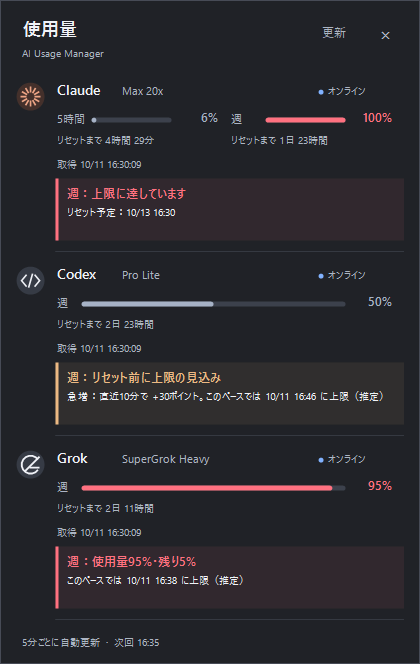
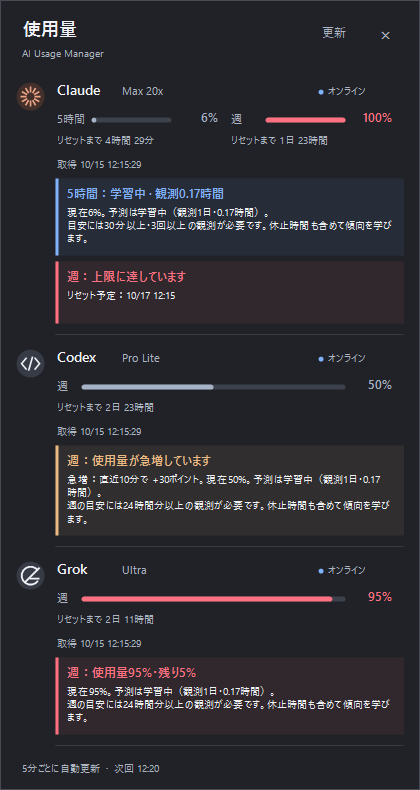
Showcase the app with screenshots and clear setup guidance

diff --git a/tests/Diagnostics.cs b/tests/Diagnostics.cs
@@ -26,7 +26,7 @@ internal static class Diagnostics
             var claude=ServiceUsage.Empty("Claude","");claude.Plan="Max 20x";claude.Source="オンライン";claude.RecordedAt=now;
             claude.Windows[0].Percent=1;claude.Windows[0].ResetsAt=now.AddHours(4.5);claude.Windows[1].Percent=98;claude.Windows[1].ResetsAt=now.AddDays(2);
             var codex=ServiceUsage.Empty("Codex","");codex.Plan="Pro Lite";codex.Source="CLI 記録";codex.RecordedAt=now.AddHours(-3);codex.Windows[0].Percent=50;codex.Windows[0].ResetsAt=now.AddDays(3);
-            var grok=ServiceUsage.Empty("Grok","");grok.Plan="SuperGrok Heavy";grok.Source="オンライン";grok.RecordedAt=now;grok.Windows[0].Percent=42;grok.Windows[0].ResetsAt=now.AddDays(2.5);
+            var grok=ServiceUsage.Empty("Grok","");grok.Plan="Ultra";grok.Source="オンライン";grok.RecordedAt=now;grok.Windows[0].Percent=42;grok.Windows[0].ResetsAt=now.AddDays(2.5);
             values=new[]{claude,codex,grok};
             if(args.Contains("--alerts")) {
                 var alerts=new UsageAlerts();

diff --git a/README.md b/README.md
@@ -1,122 +1,122 @@
-<img src="assets/app.png" width="72" height="72" alt="AI Usage Manager icon">
+<img src="assets/app.png" width="64" height="64" alt="AI Usage Managerのアイコン">
 
 # AI Usage Manager
 
-Claude・Codex・Grok の使用量をまとめて確認する、Windows 11用の軽量タスクトレイアプリです。
+**Claude・Codex・Grokの使用量とリセット時間を、ひとつの場所で。**
 
-トレイ版はWindows標準の **.NET Framework 4.8 / 4.8.1 と Windows Forms** で動作します。追加ランタイム、WebView2、Node.js、Python、NuGetは不要です。表示言語は日本語です。Windowsウィジェット版は追加の登録・ランタイムが必要なオプションです。
+Windows 11のタスクトレイから開く、軽量な使用量モニターです。作業中に残りの枠を確認し、上限が近づいたら通知で気づけます。Obsidianのノート上部やWindowsウィジェットにも表示できます。表示言語は日本語です。
+
+[![Windows build](https://github.com/genkis3zu/AIUsageManager/actions/workflows/build.yml/badge.svg)](https://github.com/genkis3zu/AIUsageManager/actions/workflows/build.yml)
+
+[ダウンロード](https://github.com/genkis3zu/AIUsageManager/releases/latest) · [スクリーンショット](#スクリーンショット) · [はじめる](#はじめる) · [プライバシー](docs/privacy.md) · [MIT License](LICENSE)
 
 | ライト | ダーク |
 |---|---|
-| ![ライト表示](docs/images/light.png) | ![ダーク表示](docs/images/dark.png) |
+| ![ライトテーマのトレイ一覧。使用率、リセット時間、取得時刻を表示](docs/images/light.png) | ![ダークテーマのトレイ一覧。GrokのUltraプランなどを表示](docs/images/dark.png) |
 
-画像は架空のプラン・使用率によるサンプルです。
+画像の使用量・プランはすべて架空のサンプルです。本文は`main`の1.1開発版を紹介しています。**公開Releaseのv1.0.0に含まれる機能は、下の[対応版の表](#はじめる)で確認してください。**
 
-## ダウンロード・起動
+## できること
 
-1. [最新版のRelease](https://github.com/genkis3zu/AIUsageManager/releases/latest) から `AIUsageManager-1.0.0-windows.zip` をダウンロードします。
-2. ZIPを、書き込み可能な任意のフォルダーに展開します。
-3. **AIUsageManager.exe** を起動します。`AIUsageManager.exe.config` は同じフォルダーに置いてください。
-4. タスクトレイの棒グラフのアイコンをクリックします。見当たらなければ `^` 内を確認してください。
+- **3サービスを一覧で確認** — Claudeの5時間・週、CodexとGrokの週枠を表示。プラン名、使用率、リセットまでの時間、取得時刻が分かります。
+- **上限が近づいたら通知** — 90%・95%・100%への到達、急増、学習した予測による警告をWindows通知と画面内の文章で知らせます。
+- **使い方の傾向から予測** — 使用率の履歴を蓄積し、過去の予測誤差で補正。90%・95%までの目安を幅で表示します。
+- **いつもの作業場所に表示** — Obsidianの固定ツールバーは標準3行／縮小1行。Windowsのウィジェットボードにも追加できます。
+- **Windows標準の仕組みで常駐** — トレイ版は.NET Framework 4.8 / 4.8.1とWindows Formsで動作。追加ランタイム、WebView2、Node.js、Pythonのインストールは不要です。
 
-対応するCLIの既存ログインや利用記録を参照します。利用できるログイン情報も保存された使用量もないサービスは「未取得」になります。管理者権限は不要です。インストーラーと自動起動登録はありません。
+5分ごとに自動更新し、手動更新にも対応します。ライト／ダーク／Windowsに合わせる、の3つから配色を選べます。
 
-配布ファイルはコード署名されていません。ダウンロード元とReleaseのSHA-256を確認してください。保護機能の無効化は必要ありません。
+## スクリーンショット
 
-## 表示するもの
+### 色だけでなく、文章で知らせる
 
-| サービス | 使用枠 | データ元 |
+上限到達や急増を警告帯に表示します。予測の詳細には現在の割合、推定ペース、到達までの目安幅、検証件数と平均誤差を表示します。
+
+| 上限・急増の警告 | 履歴から補正する到達予測 |
+|---|---|
+| ![上限到達、急増、95%到達を示す警告帯](docs/images/alerts-dark.png) | ![使用率の履歴から90%と95%までの目安幅を表示する予測画面](docs/images/forecast-light.png) |
+
+最初は「学習中」です。週枠は有効な24時間分、5時間枠は30分分と3件以上の観測から参考値を表示します。検証が足りない間は予測による通知を控えます。使い方が変わると外れるため、予測は目安として使ってください。[警告・予測の詳しい仕組み →](docs/alerts.md)
+
+### Obsidianで、ノートを書きながら確認
+
+デイリーノートなどの上部に固定表示します。**本文をスクロールしてもツールバーは残り、ノート本文やテンプレートは変更しません。**
+
+**標準表示：3サービスを3行で。**
+
+![架空のデイリーノート上部に3行の使用量ツールバーを表示したプレビュー](docs/images/obsidian-note-light.png)
+
+**縮小表示：1行でコンパクトに。**
+
+![ダークテーマの架空ノートで使用率を1行にまとめたプレビュー](docs/images/obsidian-note-dark.png)
+
+上の2枚は実際のツールバーコードを架空のノート領域に配置したプレビューです。Obsidianのテーマによって周囲の見た目は異なります。使用量と警告は常駐アプリと共有し、プラグインは認証情報にアクセスしません。[Obsidian連携の導入・操作 →](docs/obsidian-guide.md)
+
+### Windowsウィジェットにも
+
+Win+Wのボードへ中／大サイズのカードを追加できます。使用率の確認、手動更新、トレイアプリを開く操作に対応します。
+
+| 中サイズ・ライト | 大サイズ・ダーク |
+|---|---|
+| ![3サービスをコンパクトに表示した中サイズのウィジェット](widgets/Assets/Preview.png) | ![リセット時間と取得時刻も表示した大サイズのウィジェット](docs/images/widget-large-dark.png) |
+
+画像はAdaptive Cardsの公式ホスト設定による架空データのプレビューです。Windowsのボードでの描画には差が出る場合があります。ウィジェットは追加のランタイム・登録が必要なオプションです。[Windowsウィジェットの追加手順 →](docs/widgets-guide.md)
+
+## はじめる
+
+| 使う版 | 含まれる機能 | 入手方法 |
 |---|---|---|
-| Claude | 5時間・週 | 既存Claude Codeログインによる使用量取得。失敗時は既存キャッシュ |
-| Codex | 週 | 既存ChatGPTログインによるオンライン取得。通信失敗時はローカルのCodexセッション |
-| Grok | 週 | 既存Grok CLIログインによる請求情報取得。認証・通信失敗時は未取得 |
+| **公開Release v1.0.0** | 基本のトレイ一覧、テーマ切替、5分ごとの更新 | [ReleaseからZIPをダウンロード](https://github.com/genkis3zu/AIUsageManager/releases/latest) |
+| **main・1.1開発版** | 上記に加え、ログインボタン、通知、学習する予測、Obsidian連携、Windowsウィジェット | [ソースからビルド](#ソースからビルド) |
 
-- プラン名、使用率バー、リセットまでの時間、取得時刻を表示します。
-- **80%以上は赤**。値がない「未取得」と、取得済みの **0%** を区別します。
-- ログを今読み直しても取得時刻を現在時刻に置き換えません。15分以上前の観測には「保存された値」と表示します。
-- リセット期限を過ぎても、再取得できるまでは0%に戻しません。
-- GrokはUltra・Superなどの新プラン名に対応し、オンラインの契約名を優先します。プラン名に `*` が付く場合は、マウスを重ねると取得元や旧名が残る場合の説明を確認できます。
-- Grokのログイン切れや取得失敗時は、古いCLI使用量へ戻さず、数値とバーを非表示にします。
-- Grokのリセット後に使用率が省略された場合は、公式画面側の応答と現在の週を追加確認し、確認できた0%を表示します。
-- GrokはGrok Build CLIの請求情報を参照します。Grok Botの別枠は取得しません。CLIの `grok usage` が返すセッション別のトークン数・費用とは異なる値です。
+**このREADMEの通知・予測・Obsidian・ウィジェット機能は、v1.0.0のZIPには含まれません。**
 
-### 使用量の警告（1.1開発版）
+### トレイ版を起動する
 
-90%・95%・100%に達したとき、Windows通知と画面内の警告帯で知らせます。急増や「このペースではリセット前に上限に達する見込み」も通知します。同じ警告を5分更新のたびに繰り返しません。
+1. Releaseの`AIUsageManager-1.0.0-windows.zip`を、書き込み可能な任意のフォルダーに展開します。
+2. **AIUsageManager.exe**を起動します。`AIUsageManager.exe.config`は同じフォルダーに置いてください。
+3. タスクトレイの棒グラフアイコンをクリックします。見当たらなければ`^`内を確認してください。
 
-トレイ右クリック → **通知** で「上限・急増・到達予測」「90%・95%・100%のみ」「通知しない」を選べます。初期設定はすべて通知です。通知を切っても画面内の警告は残ります。ウィジェットにも上限に近い状態を文章で表示します。
+Windows 11と対応CLIの既存ログインや利用記録が必要です。利用できる値がなければ「未取得」になります。トレイ版は管理者権限不要です。インストーラーと自動起動登録はありません。配布ファイルは未署名のため、公式ReleaseとSHA-256を確認してください。保護機能の無効化は必要ありません。
 
-到達予測は使用率の履歴を蓄積し、過去の予測と実績の誤差に応じて補正します。週枠は24時間分、5時間枠は30分・3回以上の観測が揃うまで「学習中」です。閾値・急増の警告は学習中も使えます。詳しくは [使用量の警告](docs/alerts.md) を参照してください。**v1.0.0のReleaseには未収録**です。
+### ログインと操作
 
-トレイとObsidianでは現在の割合、推定ペース、90%・95%への目安幅、100%の中心目安、履歴量と検証誤差を確認できます。直近平均・長期平均・曜日時間帯を比較し、誤差の小さい方法へ重みを寄せます。トレイ右クリック → **予測の学習** で状態の確認と履歴削除ができます。将来の作業量によって外れるため、精度の保証ではありません。
-
-![警告表示の架空サンプル](docs/images/alerts-dark.png)
-
-### ログイン
-
-Codex・Grokのログインが必要な場合、該当行とウィジェットに「ログイン」ボタンが出ます。トレイの右クリック →「ログイン」からも操作できます。
-
-ボタンを押すと、インストール済みの公式CLIが認証画面を開きます（Codex: `codex login`、Grok: `grok login --oauth`）。CLIのウィンドウとブラウザでログインを完了すると、トレイの使用量を自動で再取得します。ウィジェットは「更新」または次回の自動更新で反映します。CLIが未導入の場合は、その旨を表示します。
-
-AI Usage Managerが認証ファイルを書き換えることはありません。ボタンから起動した公式CLIは、通常のログインと同じように認証情報を保存・更新します。APIキーの入力やコピーは不要です。
-
-## 操作
+1.1開発版では、Codex・Grokの認証が必要になると「ログイン」ボタンが表示されます。インストール済みの公式CLIで認証を開始し、完了後に使用量を再取得します。APIキーのコピーは不要です。ClaudeはClaude Codeの通常のログインを使用します。
 
 | 操作 | 動作 |
 |---|---|
 | トレイを左クリック | 一覧を開く／閉じる |
-| 「更新」または F5 | 手動で再取得 |
-| 自動更新 | 前回の取得完了から5分後 |
-| 外側をクリック、Esc、×、Alt+F4 | ポップアップを閉じて常駐を継続 |
-| トレイ右クリック → テーマ | Windowsに合わせる／ライト／ダーク |
-| トレイ右クリック → 通知 | すべて／上限のみ／通知しない |
-| トレイ右クリック → 終了 | 常駐を終了 |
-| 起動済みのexeを再実行 | 既存のポップアップを表示 |
+| 「更新」またはF5 | 使用量を再取得 |
+| 外側をクリック、Esc、× | 一覧を閉じて常駐を継続 |
+| 右クリック → テーマ | Windowsに合わせる／ライト／ダーク |
+| 右クリック → 通知 | すべて／90%・95%・100%のみ／通知しない |
+| 右クリック → 予測の学習 | 学習状態の確認・履歴の削除 |
+| 右クリック → 終了 | アプリを終了 |
 
-初期テーマは「Windowsに合わせる」。Windowsのテーマ変更にも追従します。コントラストテーマが有効ならその配色を優先します。テーマと通知の選択を、exeの横の `settings.ini` に保存します。
+## 取得するデータ
 
-## プライバシー
+| サービス | 使用枠 | 主な取得元 |
+|---|---|---|
+| Claude | 5時間・週 | 既存Claude Codeログインによるオンライン取得。失敗時は既存キャッシュ |
+| Codex | 週 | 既存ChatGPTログインによるオンライン取得。通信失敗時はCodexのセッション記録 |
+| Grok | 週 | 既存Grok CLIログインによる請求情報。認証・通信失敗時は未取得 |
 
-サービスのログ・認証・設定ファイルは**読み取り専用**です。トークンや生のAPIレスポンスをログ・画面・アプリの設定ファイルへ出力しません。予測用の割合・取得／リセット時刻・既知のプラン名を、このPCのユーザー別領域に暗号化して最大90日保存します。会話内容やアカウントIDは保存せず、履歴は削除できます。通知とウィジェットの表示内容はWindowsが保持する場合があります。テレメトリー、自動更新通信、独自サーバーへの送信はありません。
+**未取得と0%を区別します。** 保存値には元の取得時刻を表示し、古い値を新しい値として扱いません。Grokの取得失敗時は古いCLIの使用率へ戻さず、数値とバーを隠します。Ultra・Superなどの新プラン名にも対応します。
 
+GrokはGrok Build CLIの請求情報を参照し、Grok Botの別枠は取得しません。契約名から数値を換算したり、別枠を足し合わせたりもしません。取得先が旧プラン名を返すことがあり、`*`の説明をマウスで確認できます。[取得仕様と制限 →](docs/data-sources.md)
 
-各サービスの取得時は、そのサービスの固定HTTPSエンドポイントに認証情報を送ります。読み取り対象・通信先・保存する内容は [プライバシー文書](docs/privacy.md) に記載しています。
+## プライバシーと制限
 
-## 制限・トラブルシューティング
+- 各サービスのログ・認証・設定ファイルは**読み取り専用**です。ログインボタンで起動する公式CLIは、通常の認証と同じように自身の認証情報を保存・更新します。
+- 予測用の割合、取得／リセット時刻、サービス枠と既知のプラン名を**このPC内に暗号化して最大90日保存**します。会話内容、トークン、アカウントID、生の応答は保存しません。履歴は削除できます。
+- テレメトリーや独自サーバーへの送信はありません。使用量を取得するときだけ、各サービスの固定エンドポイントへ認証情報を送ります。
+- 各社の公式アプリではありません。非公開の取得先が変更されると取得できなくなる場合があります。カスタムCLIホーム、複数アカウント切替は未対応です。
 
-- 各サービスの取得先は非公開仕様のため、将来変更される可能性があります。サービス各社の公式アプリではありません。
-- 認証切れの場合、Codex・Grokは「ログイン」ボタン、ClaudeはClaude Codeの通常の再ログインを使用してください。バックグラウンドでのトークン更新はしません。
-- 「CLI 記録」は最後にログへ保存された時点の値です。オンライン取得に失敗して保存値へ戻った場合、元の取得時刻と失敗理由を表示します。
-- カスタムCLIホーム、複数アカウント切り替えは未対応です。
-- 詳細な読取形式・上限は [データ取得仕様](docs/data-sources.md) を参照してください。
+読み取り対象・通信先・保存内容は[プライバシー文書](docs/privacy.md)、取得できない場合の確認事項は[データ取得仕様](docs/data-sources.md)をご覧ください。
 
-## ビルド・開発
+## ソースからビルド
 
-### Obsidianの固定ツールバー（1.1開発版）
-
-デイリーノートなどの上部に、本文をスクロールしても残る使用量ツールバーを表示できます。**標準は3行、縮小は1行**。⇡／⇣で切り替え、選択を保存します。編集・リーディングの両モードに対応し、ノート本文やテンプレートは変更しません。
-
-![Obsidian標準表示の架空サンプル](docs/images/obsidian-standard.png)
-
-![Obsidian縮小表示の架空サンプル](docs/images/obsidian-compact.png)
-
-使用量・警告は常駐アプリと共通です。Windows版Obsidian用のオプションプラグインで、認証情報にはアクセスせず、サービスへの追加問い合わせも行いません。導入と操作は [Obsidian連携ガイド](docs/obsidian-guide.md) を参照してください。**v1.0.0のReleaseには未収録**です。
-
-### Windowsウィジェット（1.1開発版）
-
-Win+Wのボードに、中／大サイズの使用量カードを追加できます。3サービスの使用率・プラン・リセット時間・取得時刻、手動更新、トレイを開く操作に対応します。表示が有効な間は5分ごとに更新し、配色はボードのライト／ダークに追従します。
-
-Windows App Runtime 2.5.1 x64以降、Windows Web Experience Pack、開発者モードが必要です。通常のトレイ版ZIPには含まれません。**v1.0.0のReleaseには未収録**です。ビルド・登録・削除は [追加手順](docs/widgets-guide.md)、内部構成は [設計](docs/windows-widgets.md) を参照してください。
-
-| 中サイズ（ライト） | 大サイズ（ダーク） |
-|---|---|
-| ![中サイズ](widgets/Assets/Preview.png) | ![大サイズ](docs/images/widget-large-dark.png) |
-
-画像は架空値をAdaptive Cardsの公式ホスト設定で描画したプレビューです。Windowsのボードでの見え方には差が出る場合があります。
-
-### トレイ版
-
-Windows PowerShell 5.1 とWindows同梱C#コンパイラだけでビルドできます。実行中のアプリは先に終了してください。
+トレイ版はWindows PowerShell 5.1とWindows同梱のC#コンパイラでビルドできます。SDKやNuGetの復元は不要です。
 
 ```powershell
 git clone https://github.com/genkis3zu/AIUsageManager.git
@@ -124,13 +124,21 @@ cd AIUsageManager
 powershell.exe -NoProfile -ExecutionPolicy Bypass -File .\build.ps1
 ```
 
-テストの成功後、ルートにexeとconfigを生成します。`ExecutionPolicy Bypass` はこのプロセスだけに適用されます。詳しくは [開発・貢献ガイド](CONTRIBUTING.md)、[設計](docs/design.md)、[検証範囲](docs/verification.md) を参照してください。
+テスト成功後、ルートにexeとconfigを生成します。更新時は実行中のアプリを先に終了してください。`ExecutionPolicy Bypass`はこのプロセスだけに適用します。Obsidian連携とウィジェットはそれぞれ別のビルド・導入手順があります。
+
+| ガイド | 内容 |
+|---|---|
+| [開発・貢献ガイド](CONTRIBUTING.md) | ビルド、テスト、配布ZIPの作成 |
+| [Obsidian連携](docs/obsidian-guide.md) | プラグインの導入と表示切替 |
+| [Windowsウィジェット](docs/widgets-guide.md) | 必要なランタイム、登録、削除 |
+| [警告と予測](docs/alerts.md) | 通知条件、学習、予測の限界 |
+| [設計](docs/design.md)・[検証範囲](docs/verification.md) | 内部構成、確認済みの動作 |
+| [公開画像について](docs/images/README.md) | スクリーンショットの出所と架空データ |
+
+不具合や要望は[Issues](https://github.com/genkis3zu/AIUsageManager/issues)へ。認証ファイルや生ログは添付せず、機密情報に関する報告は[SECURITY.md](SECURITY.md)を確認してください。
 
 ## ライセンス・参考
 
-[MIT License](LICENSE)。アプリアイコンもこのリポジトリのMITライセンスで利用できます。各サービスの名称・商標はそれぞれの権利者に帰属します。
+[MIT License](LICENSE)。アプリアイコンもMITライセンスで利用できます。各サービスの名称・商標はそれぞれの権利者に帰属します。
 
-取得プロトコルと項目名の確認に [CodeZeno/Claude-Code-Usage-Monitor](https://github.com/CodeZeno/Claude-Code-Usage-Monitor)（MIT）を参考にしました。本体コードとアイコンは新規実装です。
-
-- [Claude Code status line](https://code.claude.com/docs/en/statusline)
-- [Windows標準搭載 .NET Framework](https://learn.microsoft.com/en-us/dotnet/framework/install/on-windows-and-server)
+取得プロトコルと項目名の確認に[CodeZeno/Claude-Code-Usage-Monitor](https://github.com/CodeZeno/Claude-Code-Usage-Monitor)（MIT）を参考にしました。本体コードとアイコンは新規実装です。[Claude Code status line](https://code.claude.com/docs/en/statusline)・[Windows標準搭載.NET Framework](https://learn.microsoft.com/en-us/dotnet/framework/install/on-windows-and-server)も参照しています。

diff --git a/docs/images/README.md b/docs/images/README.md
@@ -1,0 +1,25 @@
+# 公開画像について
+
+READMEの画面は、アプリの見た目や使い方を紹介するための**架空データ**です。実アカウントの使用率・認証情報・個人のノート・デスクトップは含みません。画像中のプラン名や使用率は契約内容の証拠ではありません。
+
+| ファイル | 作成方法 |
+|---|---|
+| `light.png` / `dark.png` | 実際のWinForms画面を`tests/Diagnostics.cs`の架空値で描画 |
+| `alerts-dark.png` | 同診断ツールの`--alerts --dark`による警告表示 |
+| `forecast-light.png` | 同診断ツールの`--forecast`で架空の時系列を学習させた表示 |
+| `obsidian-note-light.png` / `obsidian-note-dark.png` | `obsidian/src/toolbar.js`と`obsidian/styles.css`を架空のノート領域に配置したブラウザープレビュー。周囲のノート領域は説明用のサンプルで、Obsidian本体の画面キャプチャではありません |
+| `obsidian-standard.png` / `obsidian-compact.png` | ツールバーの実コードと架空値による標準／縮小プレビュー |
+| `obsidian-forecast.png` | 従来の予測文を使ったツールバーのレイアウト参考。現在の予測文とは異なります |
+| `widget-large-dark.png` / `../../widgets/Assets/Preview.png` | アプリが生成した架空のAdaptive Cardを公式ホスト設定で描画したプレビュー。Windows側の描画とは差が出る場合があります |
+
+トレイ画面の再生成例です。起動中のアプリを更新せず、別フォルダーへビルドできます。
+
+```powershell
+powershell.exe -NoProfile -ExecutionPolicy Bypass -File .\build.ps1 -NoPublish -OutputDirectory build\showcase
+.\build\showcase\Diagnostics.exe
+.\build\showcase\Diagnostics.exe --dark
+.\build\showcase\Diagnostics.exe --alerts --dark
+.\build\showcase\Diagnostics.exe --forecast
+```
+
+生成先は`build/showcase/screenshots/`です。公開用には明示的に選んだ架空データ画像だけをコピーします。`--live`は使用せず、出力フォルダー全体を一括公開しないでください。予測画像は仕組みの説明用であり、実利用での精度を保証するものではありません。
